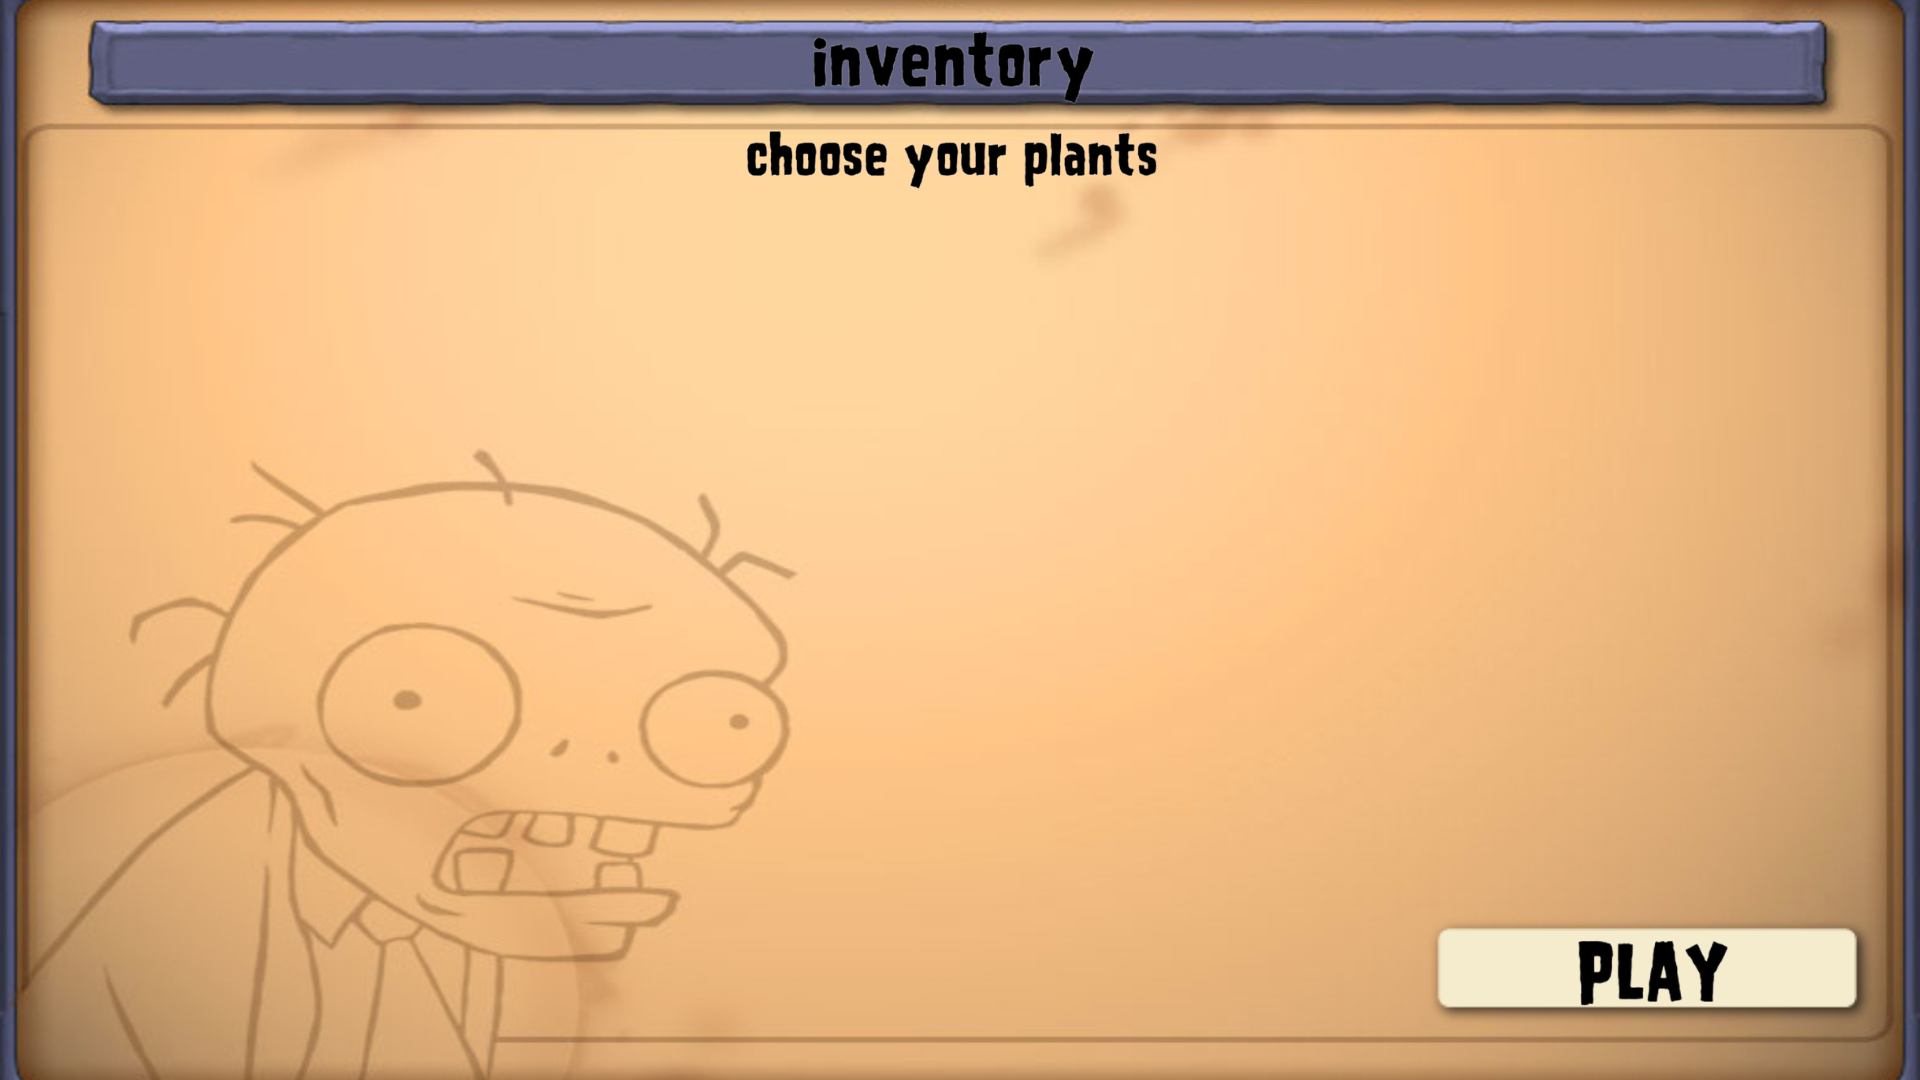
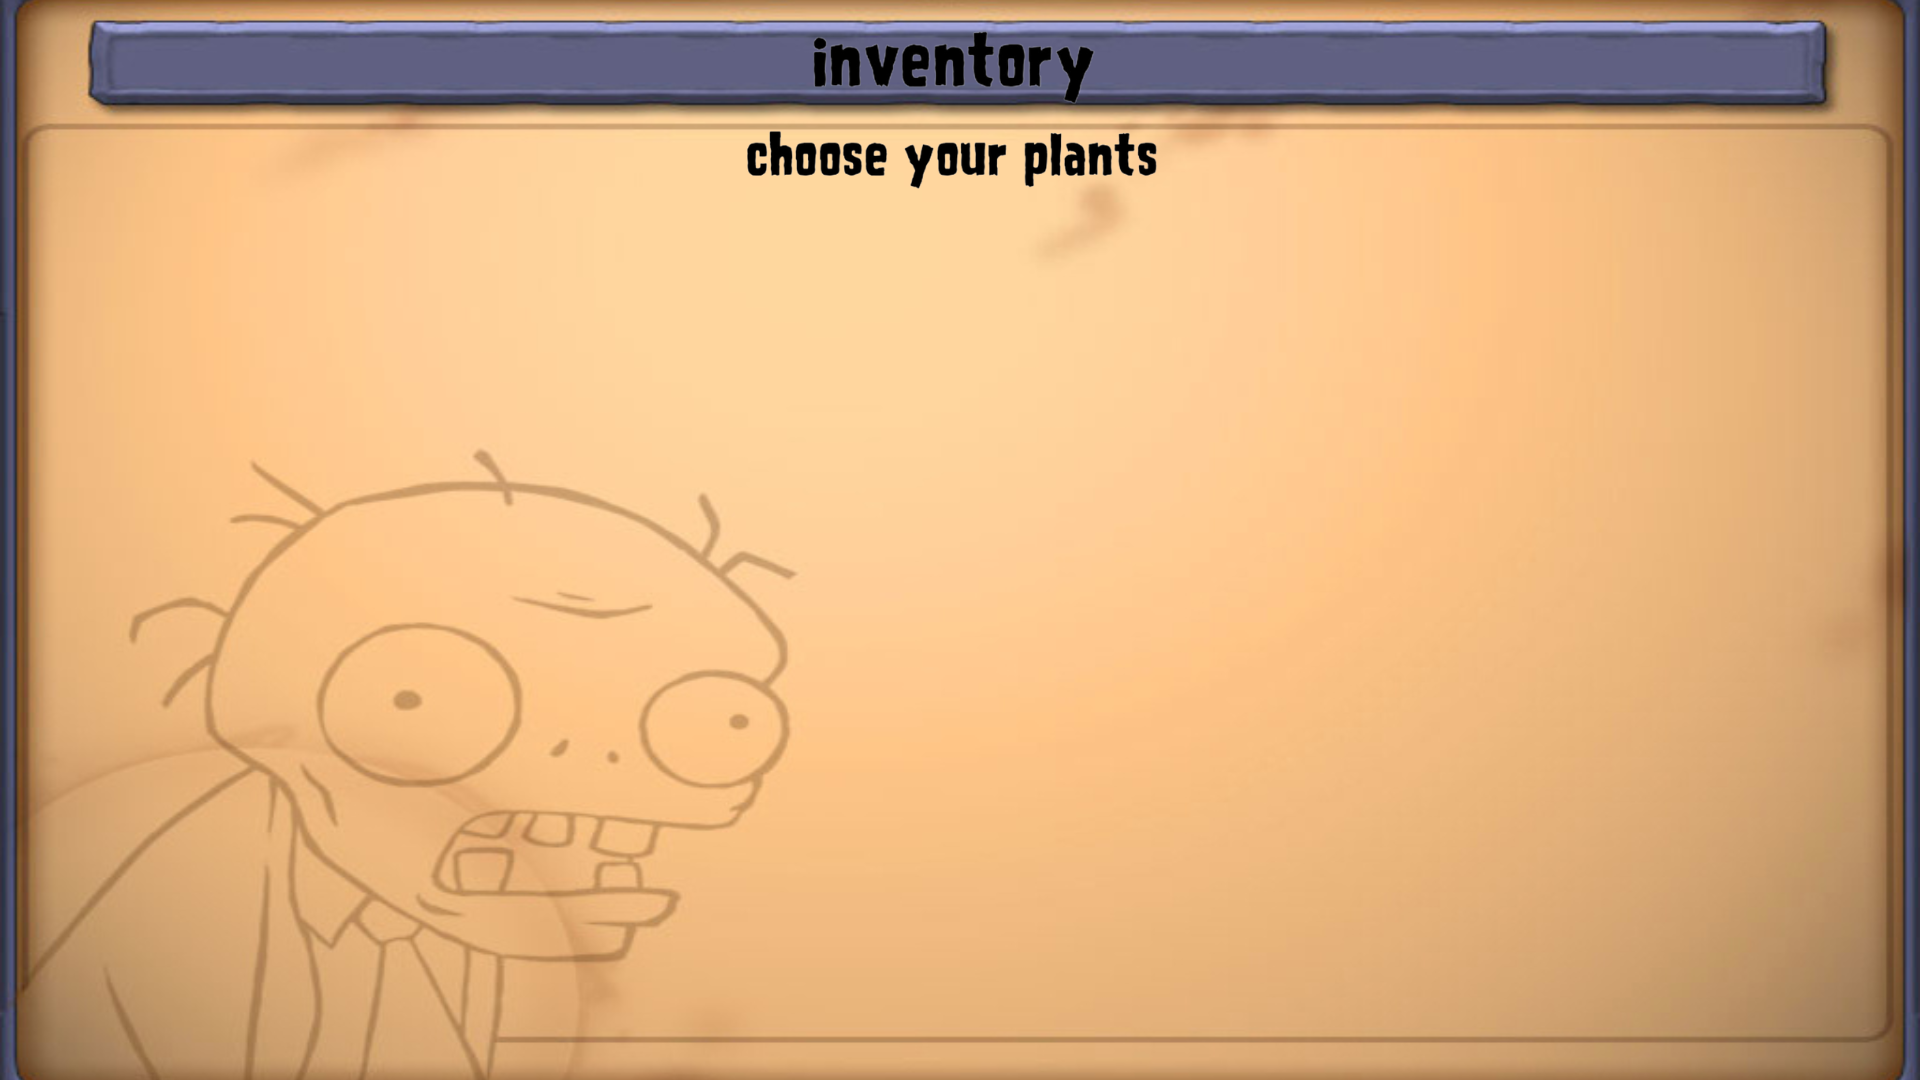
Update InventoryFrame.java dan nambah gambar

Changed region(s): [[0.75, 0.8556, 0.9688, 0.9472]]

diff --git a/src/Game/InventoryFrame.java b/src/Game/InventoryFrame.java
@@ -1,142 +1,143 @@
 package Game;
 
 import javax.swing.*;
-import javax.tools.Tool;
-
-import Inventory.Inventory;
-import Plant.*;
-
 import java.awt.*;
 import java.awt.event.*;
+import java.util.*;
 
-import java.util.ArrayList;
+import Inventory.*;
+import Picture.*;
+import Plant.*;
+import Update.Update;
 
 public class InventoryFrame extends JFrame {
+    Inventory inventory = new Inventory();
+    DeckTanaman deckTanaman = new DeckTanaman(6);
+    JLayeredPane layeredPane;
+    JLabel label;
+    JButton button;
+    ImageIcon imageIcon;
+    Image image;
+    PlantImage PlantImage;
+    Dimension screenSize;
+
+    java.util.List<JButton> planButtons = new java.util.ArrayList<>(); // ini buat nyimpen button
+
     public InventoryFrame() {
-
-        // Attributes
-        Inventory inventory = new Inventory();
-
         setDefaultCloseOperation(JFrame.EXIT_ON_CLOSE);
         setExtendedState(JFrame.MAXIMIZED_BOTH);
-        // Inventory Background
-        ImageIcon inventoryIcon = createImageIcon("ImagePvZ/Inventory/Inventory.png");
 
-        Dimension screenSize = Toolkit.getDefaultToolkit().getScreenSize();
-        int width = (int) screenSize.getWidth();
-        int height = (int) screenSize.getHeight();
+        // Declare size of screen
+        screenSize = Toolkit.getDefaultToolkit().getScreenSize();
+        int screenWidth = (int) screenSize.getWidth();
+        int screenHeight = (int) screenSize.getHeight();
 
-        Image image = inventoryIcon.getImage().getScaledInstance(width, height, Image.SCALE_SMOOTH);
-        inventoryIcon = new ImageIcon(image);
-        JLabel label = new JLabel(inventoryIcon);
+        // LayeredPane
+        layeredPane = new JLayeredPane();
+        layeredPane.setPreferredSize(screenSize);
 
-        int labelWidth = label.getPreferredSize().width;
-        int labelHeight = label.getPreferredSize().height;
-        int labelX = (width - labelWidth) / 2;
-        int labelY = (width - labelHeight) / 2;
+        // Add Picture for Background
+        imageIcon = new ImageIcon("ImagePvZ/Inventory/Inventory.png");
 
-        // first Plant Row Button
-        JButton[] plantButtons1 = new JButton[5];
-        String[] plantImages1 = {
-                "ImagePvZ/Plants/PlantsCard/sunflowerCard.png",
-                "ImagePvZ/Plants/PlantsCard/PeashooterCard.PNG",
-                "ImagePvZ/Plants/PlantsCard/wallnutCard.png",
-                "ImagePvZ/Plants/PlantsCard/SnowPea.png",
-                "ImagePvZ/Plants/PlantsCard/squash.png",
-        };
-        JButton[] plantButtons2 = new JButton[5];
-        String[] plantImages2 = {
-                "ImagePvZ/Plants/PlantsCard/LilyPadSeedCard.png",
-                "ImagePvZ/Plants/PlantsCard/cherrybombCard.png",
-                "ImagePvZ/Plants/PlantsCard/jalapenoCard.png",
-                "ImagePvZ/Plants/PlantsCard/jalapenoCard.png",
-                "ImagePvZ/Plants/PlantsCard/jalapenoCard.png"
-        };
-        int buttonWidth = 220;
-        int buttonHeight = 155;
+        image = imageIcon.getImage().getScaledInstance(screenWidth, screenHeight, Image.SCALE_SMOOTH);
+        imageIcon = new ImageIcon(image);
+        label = new JLabel(imageIcon);
+        label.setBounds(0, 0, screenWidth, screenHeight);
+        layeredPane.add(label, Integer.valueOf(0));
 
-        JPanel buttonPanel1 = new JPanel();
-        buttonPanel1.setLayout(new GridLayout(1, plantButtons1.length, 10, 0));
+        // Part Buat Plant Buttons di Inventory
+        JPanel plantButtons = new JPanel();
+        plantButtons.setOpaque(false);
+        plantButtons.setLayout(new GridLayout(2, 5, 20, 20));
 
-        for (int i = 0; i < plantButtons1.length; i++) {
-            ImageIcon plantIcon = createImageIcon(plantImages1[i]);
-            Image plantImage = plantIcon.getImage().getScaledInstance(buttonWidth, buttonHeight, Image.SCALE_SMOOTH);
-            plantIcon = new ImageIcon(plantImage);
-            plantButtons1[i] = new JButton(plantIcon);
-            buttonPanel1.add(plantButtons1[i]);
+        int index = 0;
+        int margin = 20;
+        for (PlantImage plant : PlantImage.values()) {
+            final int currentIndex = index;
+            ImageIcon imageIcon = new ImageIcon(plant.getImagePath());
+            int imageWidth = 220;
+            int imageHeight = 120;
+            Image image = imageIcon.getImage().getScaledInstance(imageWidth, imageHeight, Image.SCALE_SMOOTH);
+            imageIcon = new ImageIcon(image);
+            JButton button = new JButton();
+            button.setIcon(imageIcon);
+            button.setOpaque(false);
+            button.setContentAreaFilled(false);
+            button.setBorder(null);
+            button.setMargin(new Insets(margin, margin, margin, margin));
+            button.setPreferredSize(new Dimension(imageWidth, imageHeight));
+            button.addActionListener(new ActionListener() {
+                @Override
+                public void actionPerformed(ActionEvent e) {
+                    Plant clickedPlant = inventory.getPlant(currentIndex);
+                    if (button.isEnabled()) {
+                        if (deckTanaman.getArrayDeck().contains(inventory.getPlant(currentIndex))) {
+                            deckTanaman.getArrayDeck().remove(clickedPlant);
+                            button.setBorder(null);
+                            reenableAllButtons();
+                        } else {
+                            if (deckTanaman.getArrayDeck().size() < deckTanaman.getMaxDeckSize()) {
+                                inventory.chooseTanaman(clickedPlant, deckTanaman, inventory);
+                                button.setBorder(BorderFactory.createLineBorder(Color.RED, 5));
+
+                            }
+                        }
+                        deckTanaman.printDeck();
+                        disableButtonsIfMaxReached();
+                    }
+                }
+            });
+
+            plantButtons.add(button);
+            index++;
         }
-        // Second Plant Row Button
-        JPanel buttonPanel2 = new JPanel();
-        buttonPanel2.setLayout(new GridLayout(1, plantButtons2.length, 10, 0));
-        for (int i = 0; i < plantButtons2.length; i++) {
+        // Center the buttons panel within the layeredPane
+        int panelWidth = plantButtons.getPreferredSize().width;
+        int panelHeight = plantButtons.getPreferredSize().height;
+        plantButtons.setBounds((screenWidth - panelWidth) / 2, (screenHeight - panelHeight) / 2 - 100, panelWidth,
+                panelHeight);
 
-            ImageIcon plantIcon = createImageIcon(plantImages2[i]);
-            Image plantImage = plantIcon.getImage().getScaledInstance(buttonWidth, buttonHeight, Image.SCALE_SMOOTH);
+        layeredPane.add(plantButtons, Integer.valueOf(1));
 
-            plantIcon = new ImageIcon(plantImage);
-            plantButtons2[i] = new JButton(plantIcon);
-            buttonPanel2.add(plantButtons2[i]);
-        }
+        // Button to GameFrame
+        button = new JButton();
+        button.setIcon(new ImageIcon("ImagePvZ/Button/Play_Button.png"));
+        button.setOpaque(false);
+        button.setContentAreaFilled(false);
+        button.setBorder(null);
+        button.setMargin(new Insets(0, 0, 0, 0));
+        button.setPreferredSize(new Dimension(200, 100));
+        button.addActionListener(new ActionListener() {
 
-        // Merge buttonPanel1 and buttonPanel2
-        JPanel buttonPlants = new JPanel();
-        buttonPlants.setLayout(new GridLayout(2, 1));
-        buttonPlants.add(buttonPanel1);
-        buttonPlants.add(buttonPanel2);
-        buttonPlants.setOpaque(false);
-        buttonPlants.setBackground(new Color(0, 0, 0, 0));
-
-        // Play Button
-        ImageIcon playIcon = createImageIcon("ImagePvZ/Button/Play_Button.png");
-
-        Dimension playSize = Toolkit.getDefaultToolkit().getScreenSize();
-        int playWidth = (int) playSize.getWidth();
-        int playHeight = (int) playSize.getHeight();
-        Image playImage = playIcon.getImage().getScaledInstance(playWidth, playHeight, Image.SCALE_SMOOTH);
-        playIcon = new ImageIcon(playImage);
-        JButton playButton = new JButton(playIcon);
-        int playX = (int) (playWidth * 0.85);
-        int playY = (int) (playHeight * 0.85);
-
-        playButton.setBorderPainted(false);
-        playButton.setContentAreaFilled(false);
-        playButton.addActionListener(new ActionListener() {
             @Override
             public void actionPerformed(ActionEvent e) {
-                startGame();
+                GameManager gameManager = new GameManager();
+                GameFrame frame = new GameFrame(gameManager);
+                frame.setVisible(true);
+                dispose();
             }
         });
+        button.setBounds(screenWidth - 500, screenHeight - 200, 458, 117);
+        layeredPane.add(button, Integer.valueOf(1));
 
-        setLayout(null);
-
-        label.setBounds(0, 0, labelWidth, labelHeight);
-
-        int buttonPlantsX = (width - buttonWidth * 5) / 2;
-        int buttonPlantsY = (height - buttonHeight * 2) / 2;
-        buttonPlants.setBounds(buttonPlantsX, buttonPlantsY, buttonWidth * 5, (buttonHeight * 2));
-
-        playButton.setBounds(playX, playY, playWidth, playHeight);
-
-        add(label);
-        add(buttonPlants);
-        add(playButton);
-
-        setSize(width, height);
+        add(layeredPane, BorderLayout.CENTER);
         setVisible(true);
     }
 
-    // Method buat pindah ke GameFrame
-    public void startGame() {
-        GameManager gameManager = new GameManager();
-        gameManager.startTimer();
-        GameFrame gameFrame = new GameFrame(gameManager);
-        gameFrame.setVisible(true);
-        dispose();
+    private void reenableAllButtons() {
+        for (JButton button : planButtons) {
+            button.setEnabled(true);
+        }
     }
 
-    public ImageIcon createImageIcon(String path) {
-        return new ImageIcon(path);
-
+    private void disableButtonsIfMaxReached() {
+        if (deckTanaman.getArrayDeck().size() >= deckTanaman.getMaxDeckSize()) {
+            for (JButton button : planButtons) {
+                if (!deckTanaman.getArrayDeck().contains(inventory.getPlant(planButtons.indexOf(button)))) {
+                    button.setEnabled(false);
+                }
+            }
+        }
     }
 
     public static void main(String[] args) {

diff --git a/src/Picture/PlantImage.java b/src/Picture/PlantImage.java
@@ -1,0 +1,24 @@
+package Picture;
+
+public enum PlantImage implements Picture {
+    SUNFLOWERCARD("ImagePvZ/Plants/PlantsCard/sunflowerCard.png"),
+    PEASHOOTERCARD("ImagePvZ/Plants/PlantsCard/PeashooterCard.PNG"),
+    WALLNUTCARD("ImagePvZ/Plants/PlantsCard/wallnutCard.png"),
+    SNOWPEACARD("ImagePvZ/Plants/PlantsCard/SnowPea.png"),
+    SQUASHCARD("ImagePvZ/Plants/PlantsCard/squash.png"),
+    LILY_PAD_SEEDCARD("ImagePvZ/Plants/PlantsCard/LilyPadSeedCard.png"),
+    CHERRYBOMBCARD("ImagePvZ/Plants/PlantsCard/cherrybombCard.png"),
+    JALAPENOCARD("ImagePvZ/Plants/PlantsCard/jalapenoCard.png"),
+    NIGHTPEATERCARD("ImagePvZ/Plants/PlantsImg/Nightpeater.png"),
+    TALLNUTCARD("ImagePvZ/Plants/PlantsCard/TallNutCard.png");
+
+    private String imagePath;
+
+    PlantImage(String imagePath) {
+        this.imagePath = imagePath;
+    }
+
+    public String getImagePath() {
+        return this.imagePath;
+    }
+}

diff --git a/src/Inventory/Inventory.java b/src/Inventory/Inventory.java
@@ -10,6 +10,19 @@ public class Inventory {
 
     public Inventory() {
         this.plantInventory = new ArrayList<Plant>();
+        initializeInventory();
+    }
+
+    /* METHOD */
+
+    // getter plantInventory
+    public ArrayList<Plant> getPlantInventory() {
+        return this.plantInventory;
+    }
+
+    // method initializeInventory
+
+    public void initializeInventory() {
         this.addPlant(new Sunflower());
         this.addPlant(new Peashooter());
         this.addPlant(new Wallnut());
@@ -20,13 +33,6 @@ public class Inventory {
         this.addPlant(new Jalapeno());
         this.addPlant(new Onehitter());
         this.addPlant(new Tallnut());
-    }
-
-    /* METHOD */
-
-    // getter plantInventory
-    public ArrayList<Plant> getPlantInventory() {
-        return this.plantInventory;
     }
 
     // getter Plant

diff --git a/src/Picture/ButtonImage.java b/src/Picture/ButtonImage.java
@@ -1,0 +1,16 @@
+package Picture;
+
+public enum ButtonImage implements Picture {
+    PLAYBUTTON("ImagePvZ/Button/Play_Button.png");
+
+    private String imagePath;
+
+    ButtonImage(String imagePath) {
+        this.imagePath = imagePath;
+    }
+
+    public String getImagePath() {
+        return this.imagePath;
+    }
+
+}

diff --git a/src/Picture/Picture.java b/src/Picture/Picture.java
@@ -1,0 +1,7 @@
+package Picture;
+
+public interface Picture {
+
+    public String getImagePath();
+
+}
